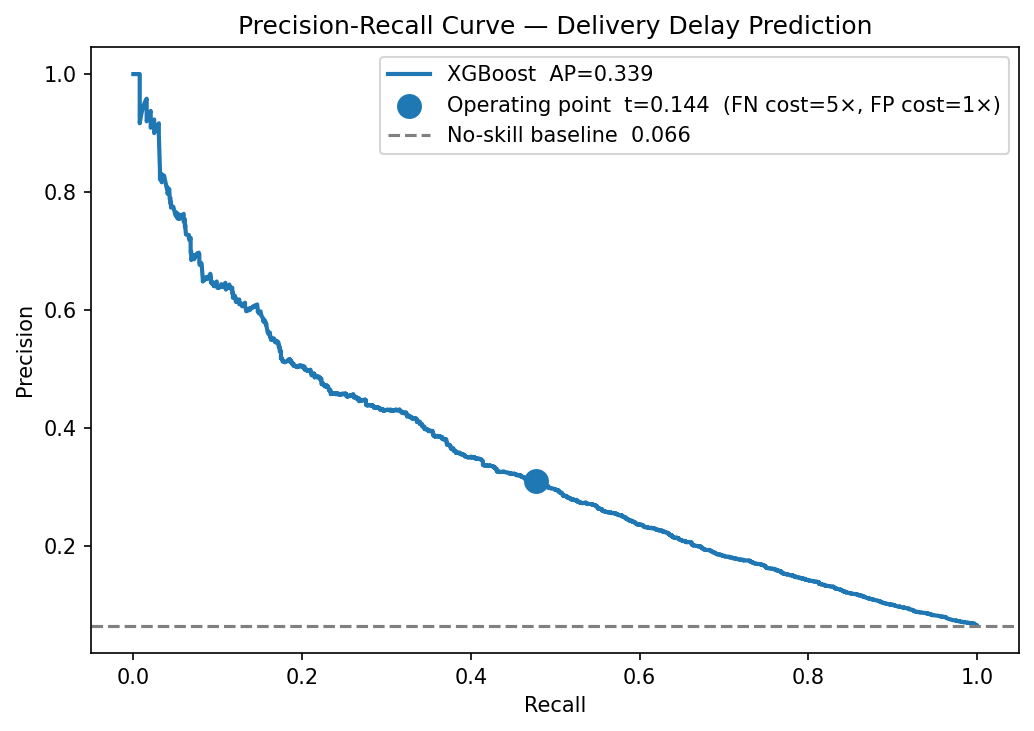
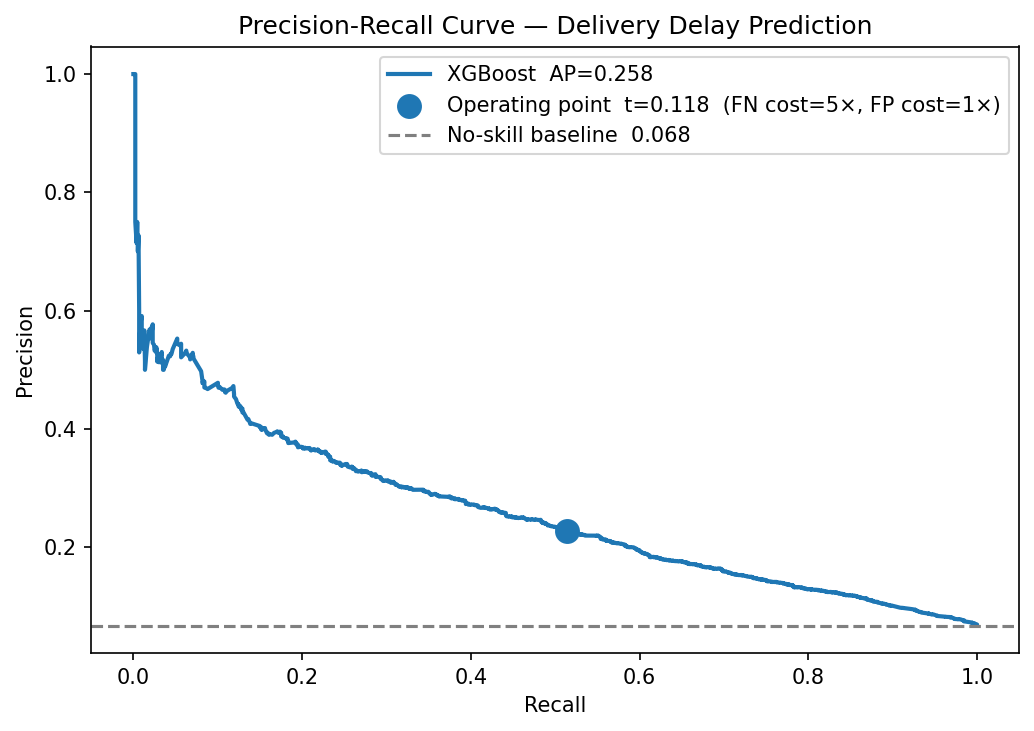
Add n_items feature; XGBoost now best model (val PR-AUC 0.2333)
- Add n_items to FEATURE_COLS in feature.py so aggregate_to_order_level output is saved
- Add n_items to NUMERIC_FEATURES in model_config.py (15 features total)
- Add n_items field to API schema and test payload
- Update health check assertion to n_features == 15
- XGBoost selected over RF: val PR-AUC 0.2333 vs 0.2206
- Test metrics: ROC-AUC 0.7875, PR-AUC 0.2577, F1 0.3150, threshold 0.118
- Update README with new model, metrics, and feature count

diff --git a/src/feature.py b/src/feature.py
@@ -30,6 +30,7 @@ FEATURE_COLS = [
     'freight_value',
     'zip_distance_proxy',
     'is_peak_delayed_period',
+    'n_items',
 ]
 
 def add_temporal_features(df: pd.DataFrame) -> pd.DataFrame:
@@ -79,6 +80,24 @@ def engineer_features(df: pd.DataFrame) -> pd.DataFrame:
     df = add_calender_features(df)
     return df
 
+def aggregate_to_order_level(df: pd.DataFrame) -> pd.DataFrame:
+    """
+    Collapse item-level rows to one row per order_id, after feature
+    engineering. Physical features are summed across items (multi-item
+    orders carry more weight/volume/value); everything else is shared
+    across items in the same order, so 'first' is correct, not lossy.
+    """
+    sum_cols = ["product_weight_g", "product_volume_cm3", "order_value", "freight_value"]
+    sum_cols = [c for c in sum_cols if c in df.columns]
+
+    other_cols = [c for c in df.columns if c not in sum_cols and c != "order_id"]
+
+    summed = df.groupby("order_id")[sum_cols].sum()
+    first_vals = df.groupby("order_id")[other_cols].first()
+    n_items = df.groupby("order_id").size().rename("n_items")
+
+    return first_vals.join(summed).join(n_items).reset_index()
+
 def main():
     input_path = os.path.join(DATA_DIR, "olist.merged.csv")
     print(f"Reading {input_path}....")
@@ -92,6 +111,11 @@ def main():
     if neg:
         print(f"  Dropping {neg} rows with negative shipping_days (carrier/delivery timestamp errors)")
         df = df[df['shipping_days'] >= 0].reset_index(drop=True)
+    
+    print("Aggregating to order level...")
+    before = len(df)
+    df = aggregate_to_order_level(df)
+    print(f"  {before:,} item-rows → {len(df):,} order-level rows ({df['order_id'].nunique():,} unique orders)")
 
     missing = df[FEATURE_COLS].isnull().sum()
     missing = missing[missing >0]

diff --git a/app/schemas.py b/app/schemas.py
@@ -14,7 +14,7 @@ BR_STATES = {
 class DeliveryFeatures(BaseModel):
     """Features known at purchase time for a single order.
 
-    Matches the 14 columns the trained pipeline expects (is_weekend is derived
+    Matches the 15 columns the trained pipeline expects (is_weekend is derived
     in the API from purchase_dayofweek). Excludes identifiers, the target
     (delayed), and post-shipment leakage columns (shipping_days,
     delivery_delay_days).
@@ -31,6 +31,7 @@ class DeliveryFeatures(BaseModel):
     zip_distance_proxy: float = Field(..., ge=0, description="Coarse seller->customer distance proxy from CEP prefixes.")
     seller_delay_rate: float = Field(..., ge=0, le=1, description="Seller's historical share of late deliveries, computed only from data before this order.")
     is_peak_delayed_period: int = Field(..., ge=0, le=1, description="1 if the order falls in a known high-delay month; set upstream in features.py.")
+    n_items: int = Field(..., ge=1, description="Number of distinct items in the order.")
     seller_state: str = Field(..., description="Brazilian UF, e.g. 'SP'.")
     customer_state: str = Field(..., description="Brazilian UF, e.g. 'RJ'.")
 
@@ -56,6 +57,7 @@ class DeliveryFeatures(BaseModel):
                 "zip_distance_proxy": 24.0,
                 "seller_delay_rate": 0.18,
                 "is_peak_delayed_period": 1,
+                "n_items": 2,
                 "seller_state": "SP",
                 "customer_state": "BA",
             }

diff --git a/tests/test_api.py b/tests/test_api.py
@@ -28,6 +28,7 @@ VALID_PAYLOAD = {
     "zip_distance_proxy": 24.0,
     "seller_delay_rate": 0.18,
     "is_peak_delayed_period": 1,
+    "n_items": 2,
     "seller_state": "SP",
     "customer_state": "BA",
 }
@@ -46,7 +47,7 @@ def test_health_returns_200(client):
     body = r.json()
     assert body["status"] == "ok"
     assert body["model_loaded"] is True
-    assert body["n_features"] == 14
+    assert body["n_features"] == 15
 
 
 def test_predict_valid_payload_returns_200(client):

diff --git a/src/model_config.py b/src/model_config.py
@@ -14,6 +14,7 @@ NUMERIC_FEATURES =[
     "freight_value",
     "zip_distance_proxy",
     "seller_delay_rate",
+    "n_items",
 ]
 
 PASSTHROUGH_FEATURES =[

diff --git a/README.md b/README.md
@@ -57,7 +57,7 @@ python src/train_model.py
 |----------|----------|
 | Temporal | `estimated_days`, `approval_hours`, `purchase_dayofweek`, `purchase_month` |
 | Physical | `product_weight_g`, `product_volume_cm3`, `order_value`, `freight_value` |
-| Logistics | `zip_distance_proxy`, `seller_delay_rate` ¹ |
+| Logistics | `zip_distance_proxy`, `seller_delay_rate` ¹, `n_items` |
 | Calendar | `is_peak_delayed_period`, `is_weekend` |
 | Geographic | `seller_state`, `customer_state` |
 
@@ -73,30 +73,30 @@ Three models trained and compared on a stratified 70 / 15 / 15 train / val / tes
 
 | Model | Val PR-AUC | Selected |
 |-------|-----------|----------|
-| Logistic Regression | 0.1595 | |
-| Random Forest | 0.3687 | ✅ |
-| XGBoost (tuned + calibrated) | 0.3394 | |
+| Logistic Regression | 0.1387 | |
+| Random Forest | 0.2206 | |
+| XGBoost (tuned + calibrated) | 0.2333 | ✅ |
 
 **Selection criterion:** val PR-AUC on a held-out validation set the models never trained on.
 
-**Threshold:** optimised for business cost (`5 × FN + 1 × FP`) — missing a delay costs 5× more than a false alarm — giving threshold = 0.1477.
+**Threshold:** optimised for business cost (`5 × FN + 1 × FP`) — missing a delay costs 5× more than a false alarm — giving threshold = 0.118.
 
-### Final model performance (Random Forest, stratified test set)
+### Final model performance (XGBoost calibrated, stratified test set)
 
 | Metric | Value |
 |--------|-------|
-| ROC-AUC | **0.8228** |
-| PR-AUC | **0.4017** |
-| F1 | **0.3881** |
-| Threshold | 0.1477 |
-| Delayed precision | 0.33 |
-| Delayed recall | 0.47 |
+| ROC-AUC | **0.7875** |
+| PR-AUC | **0.2577** |
+| F1 | **0.3150** |
+| Threshold | 0.118 |
+| Delayed precision | 0.23 |
+| Delayed recall | 0.51 |
 
 ---
 
 ## SHAP Explainability (`src/predict_shap.py`)
 
-Top 3 features by mean |SHAP| (Random Forest):
+Top 3 features by mean |SHAP| (XGBoost):
 
 1. `seller_delay_rate` — dominant signal; a seller's past behaviour is the strongest predictor of future delays
 2. `estimated_days` — short promise windows are high-risk